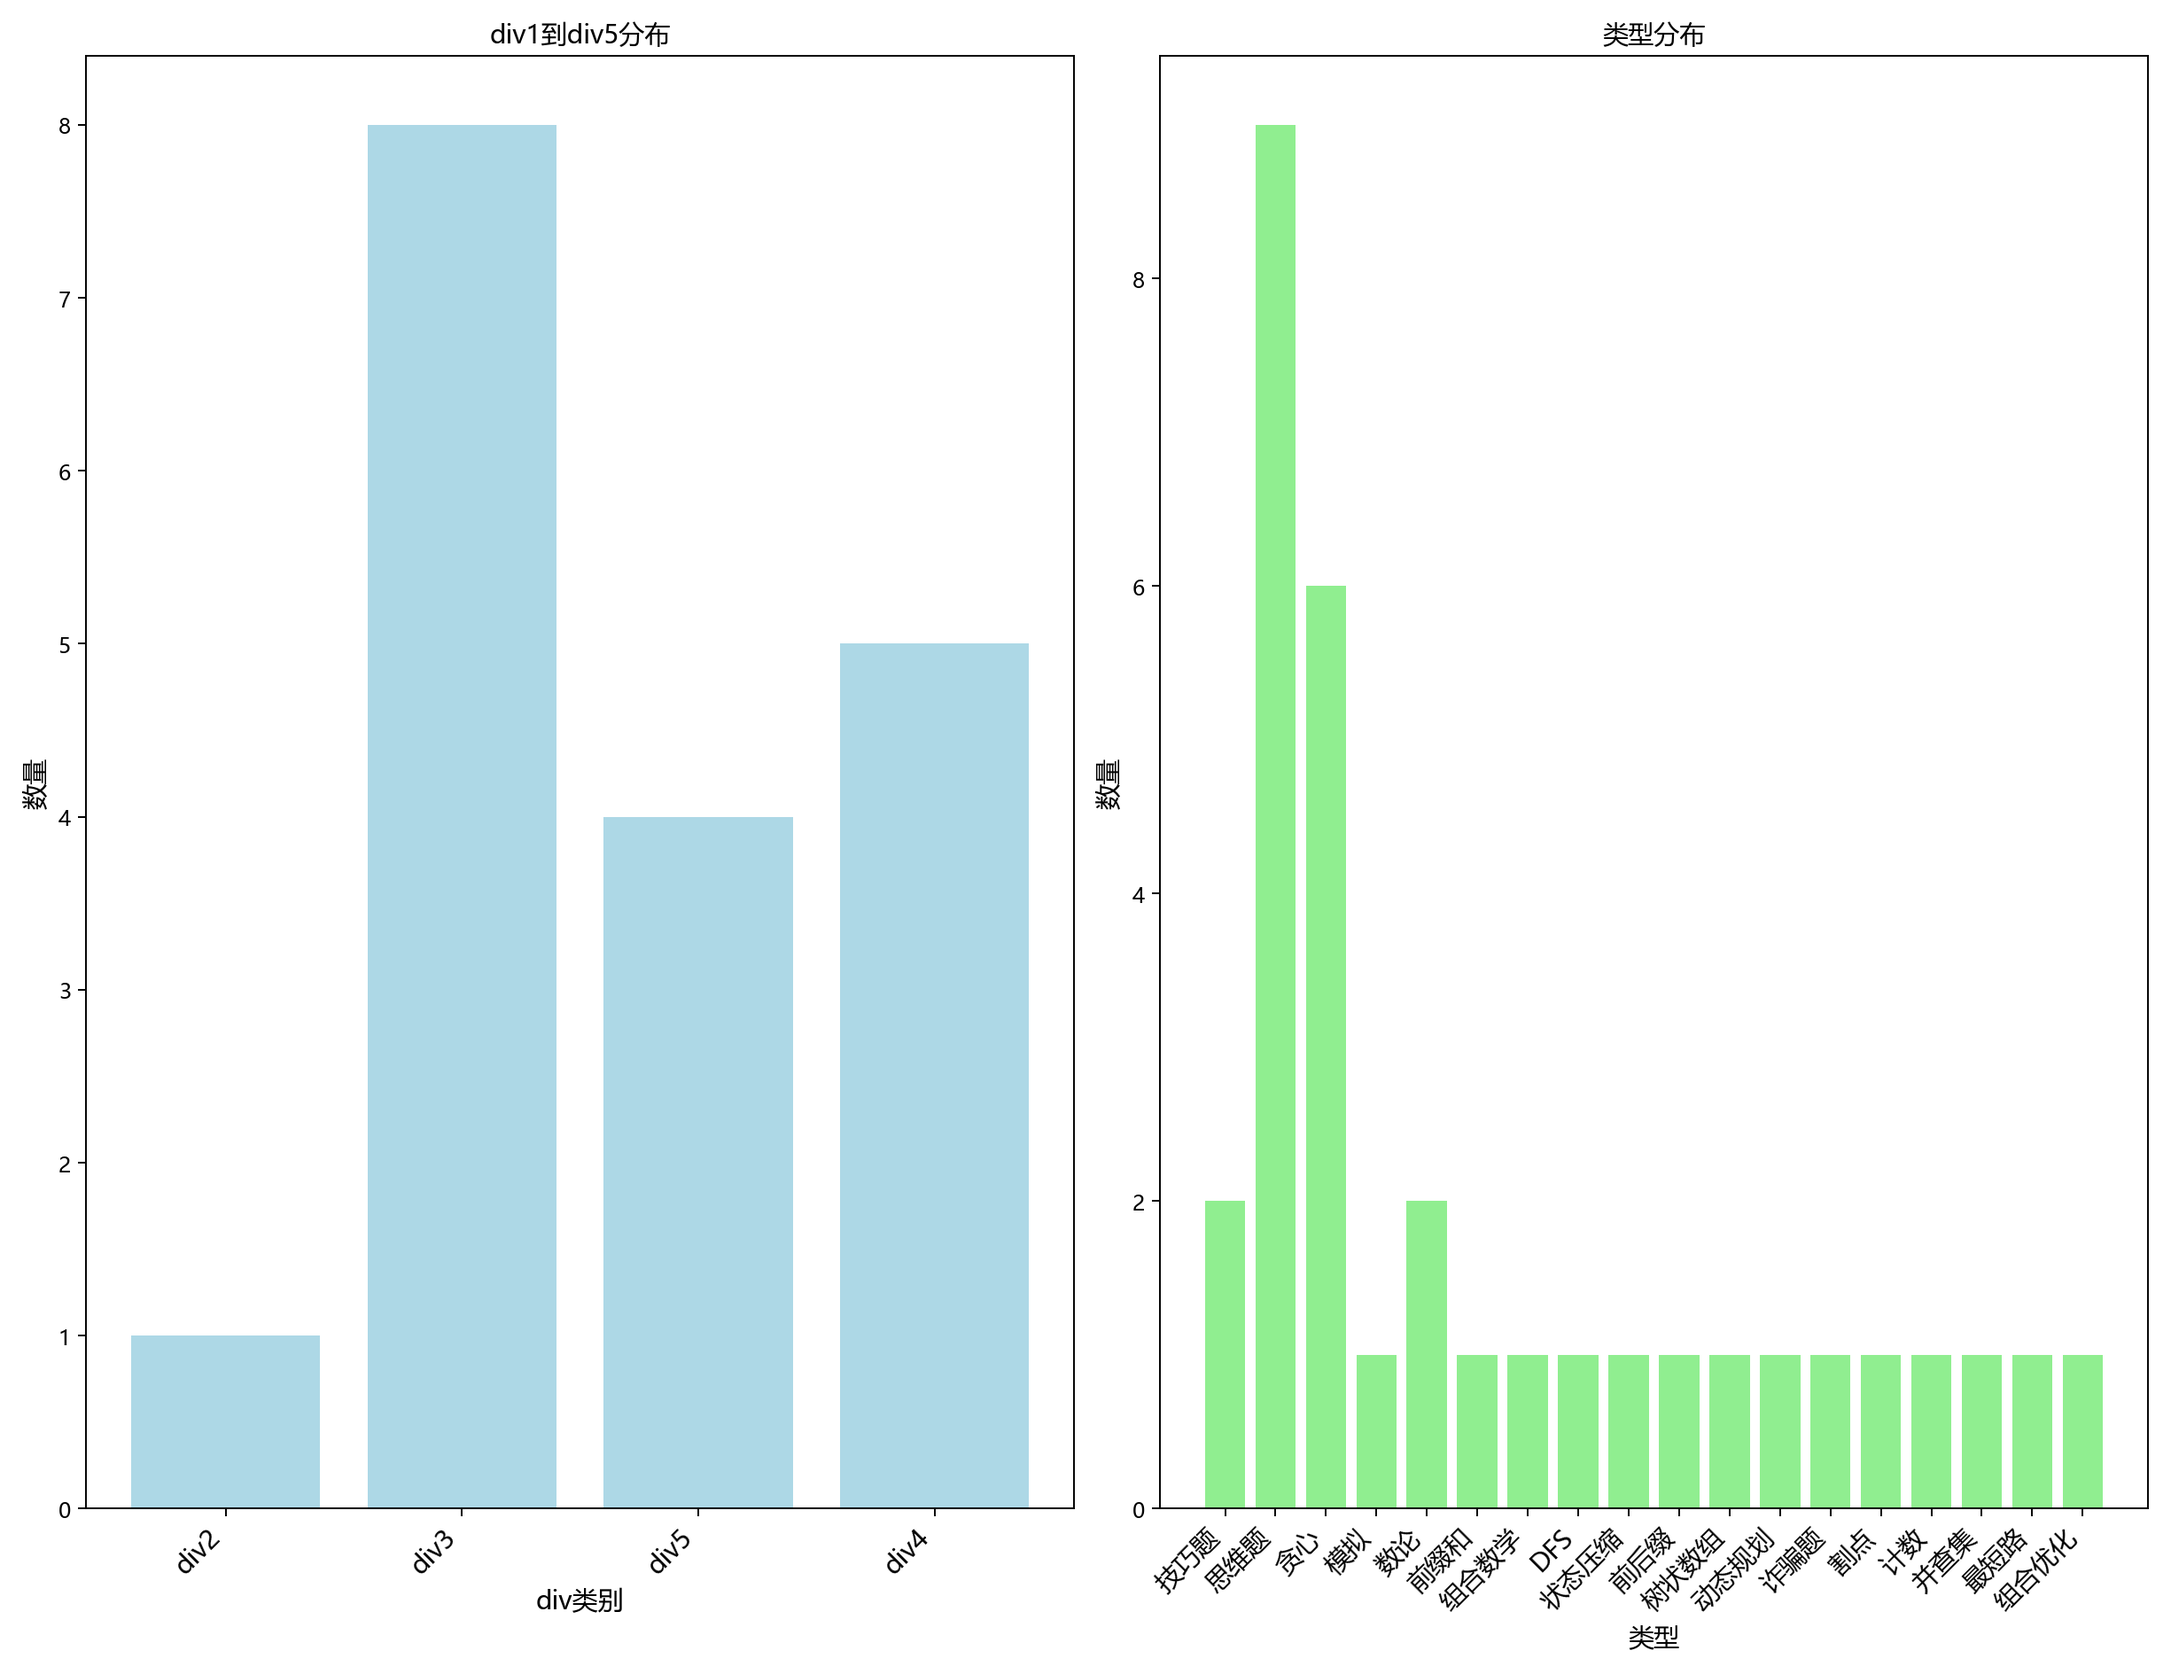
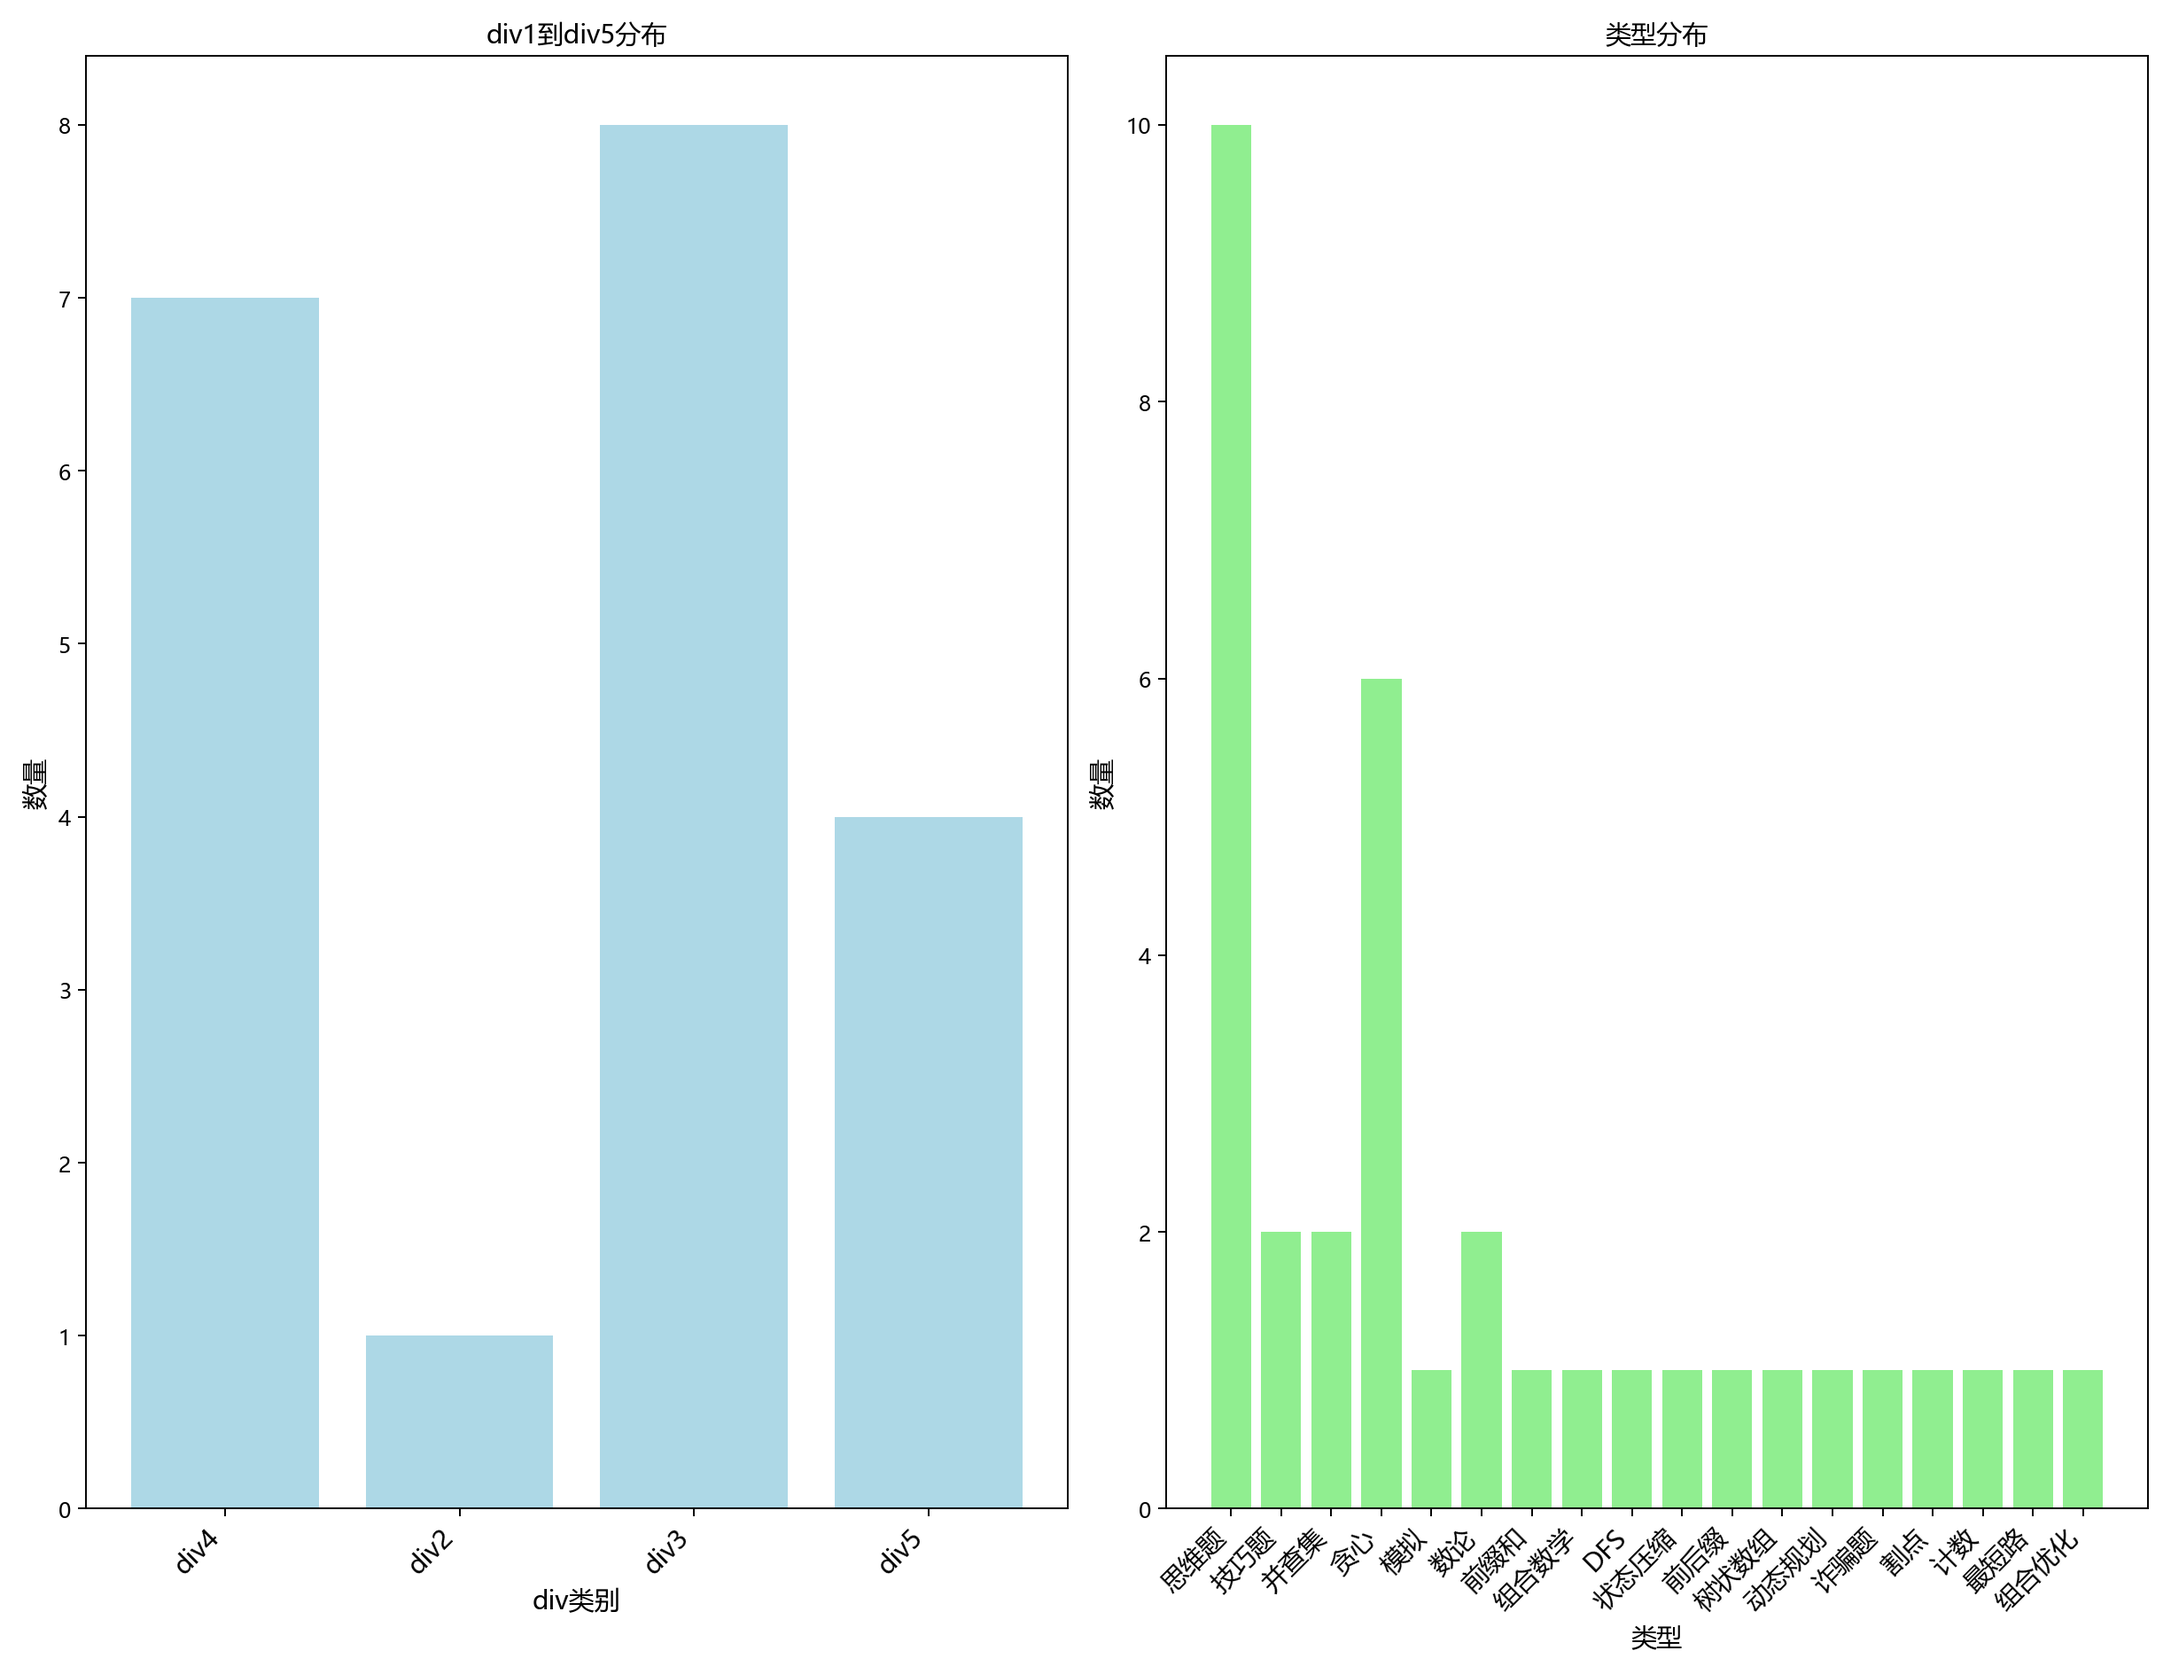
f

diff --git a/算法/周赛补题/周赛60/div4_{思维题}_D.md b/算法/周赛补题/周赛60/div4_{思维题}_D.md
@@ -1,0 +1,1 @@
+# [转到题目](https://ac.nowcoder.com/acm/contest/90070/D)

diff --git a/算法/周赛补题/周赛66/div4_{并查集}_D.md b/算法/周赛补题/周赛66/div4_{并查集}_D.md
@@ -1,0 +1,1 @@
+# [转到题目](https://ac.nowcoder.com/acm/contest/93847/E)
